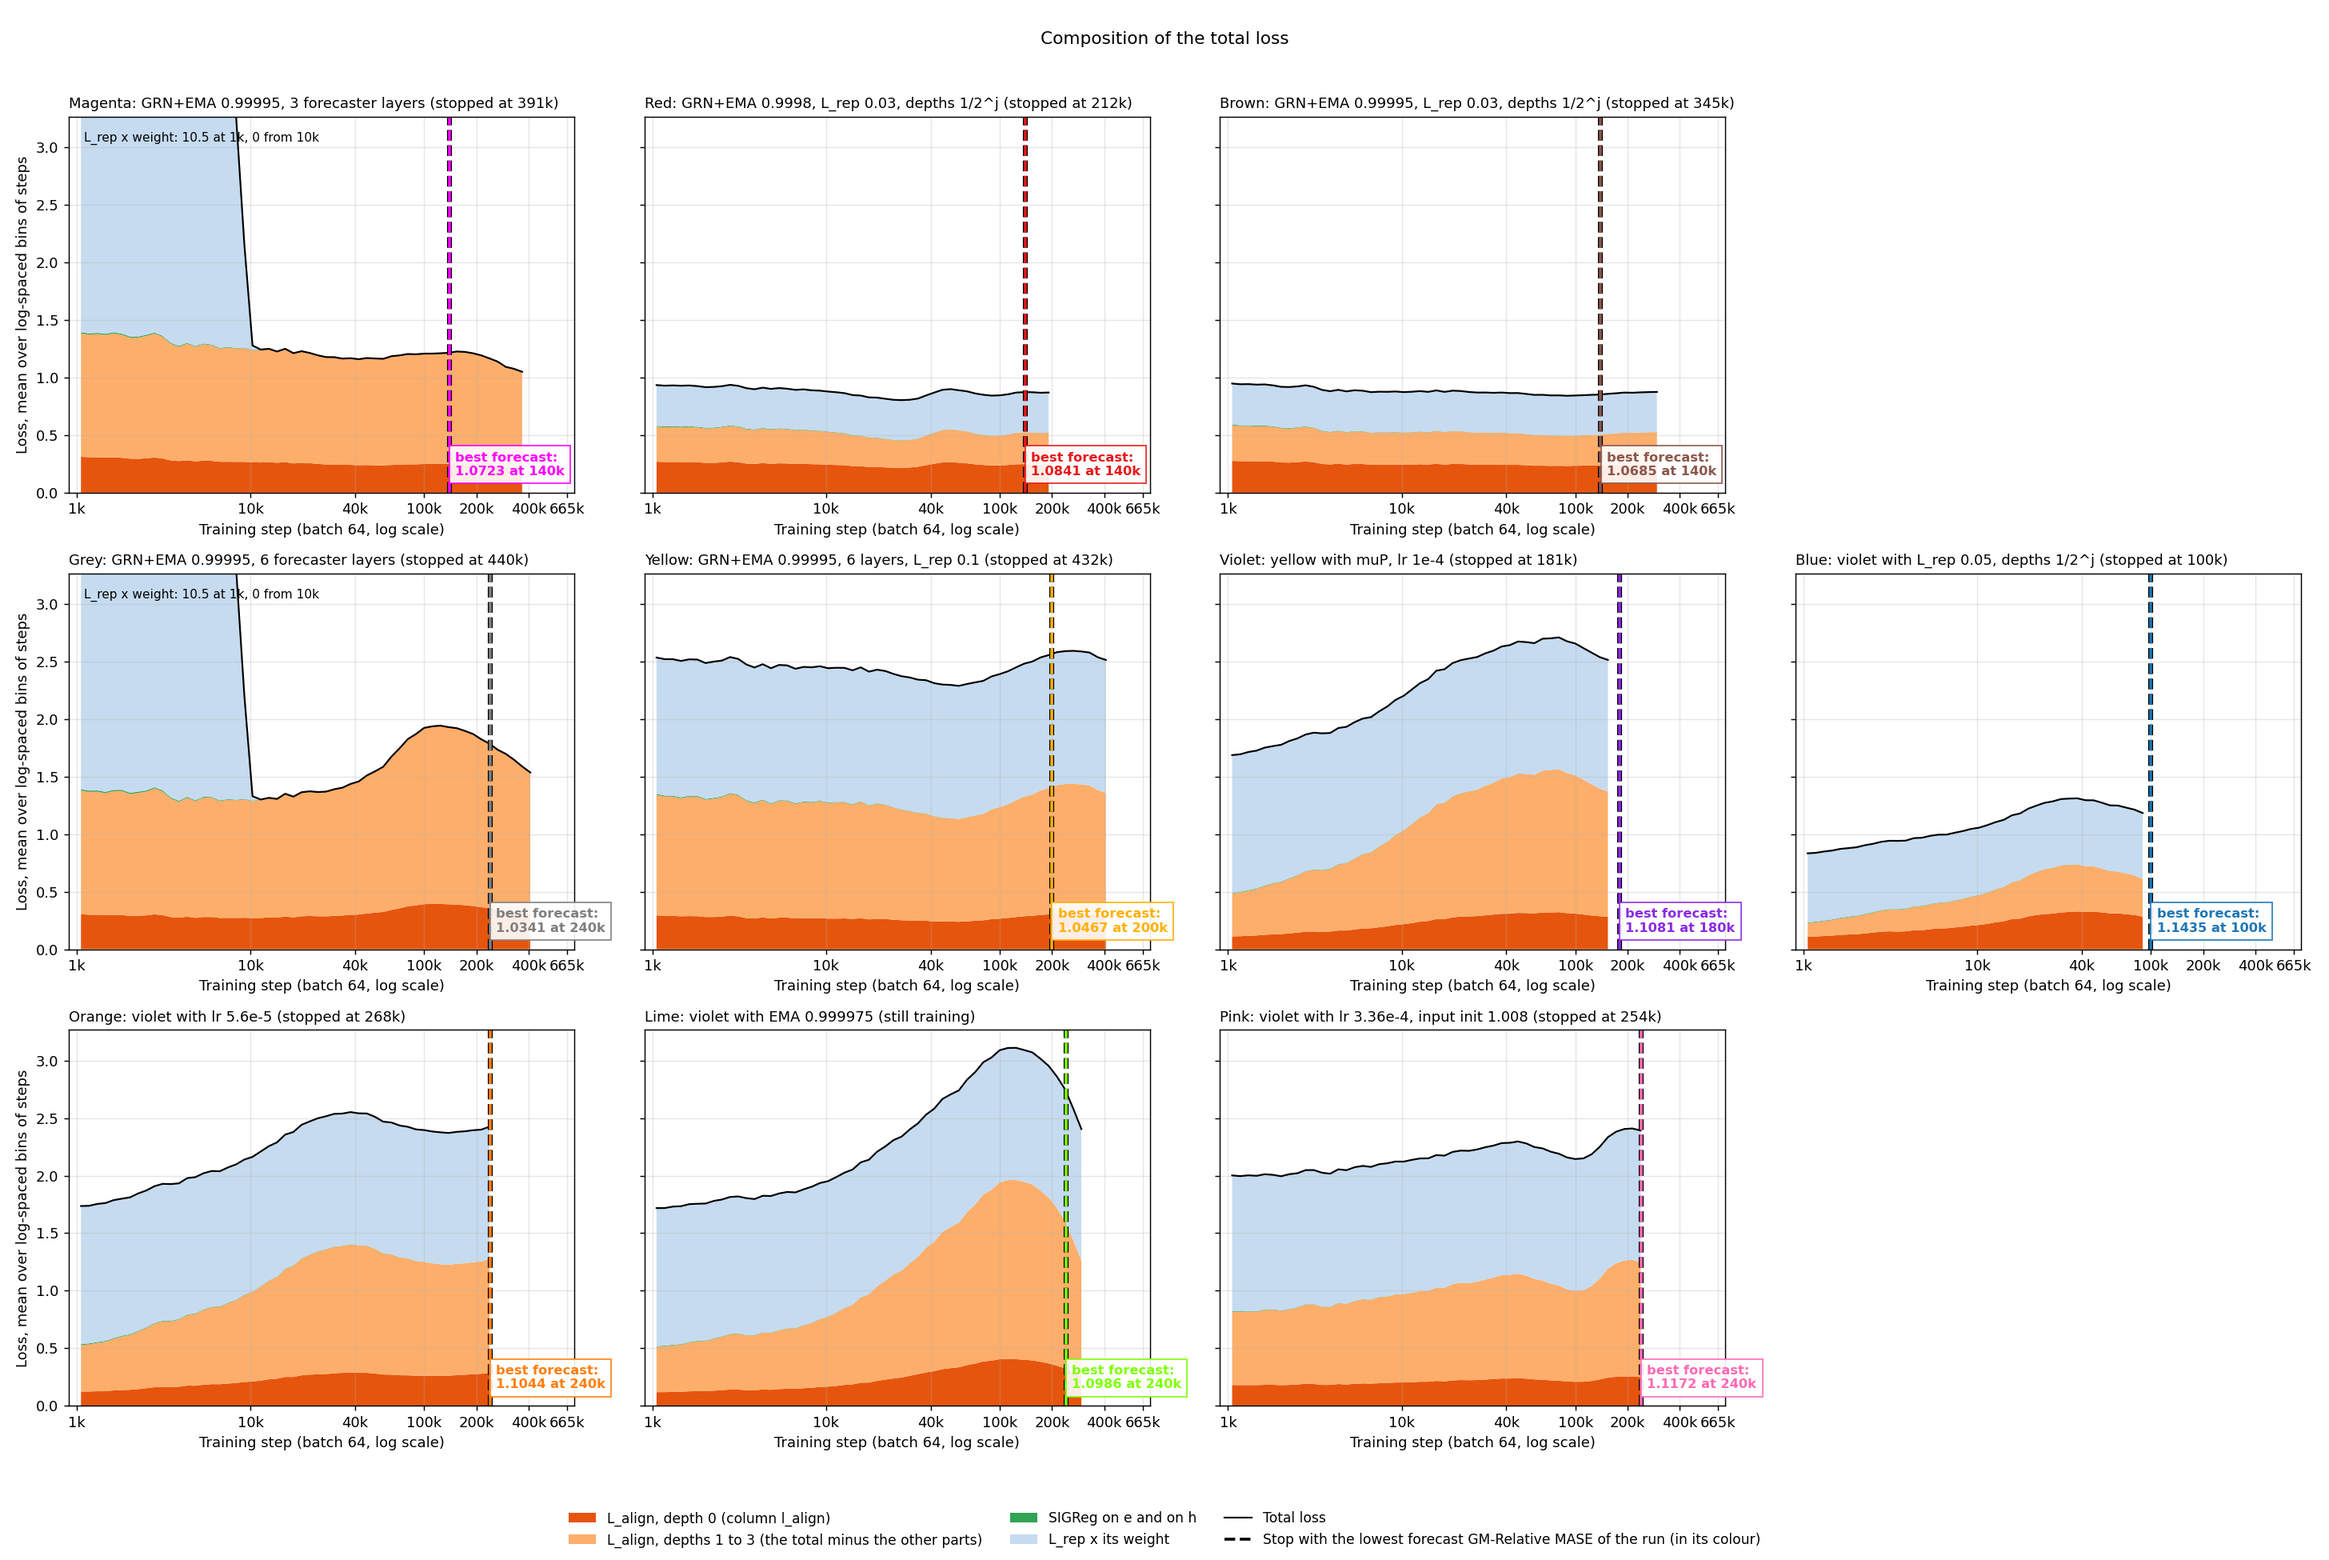
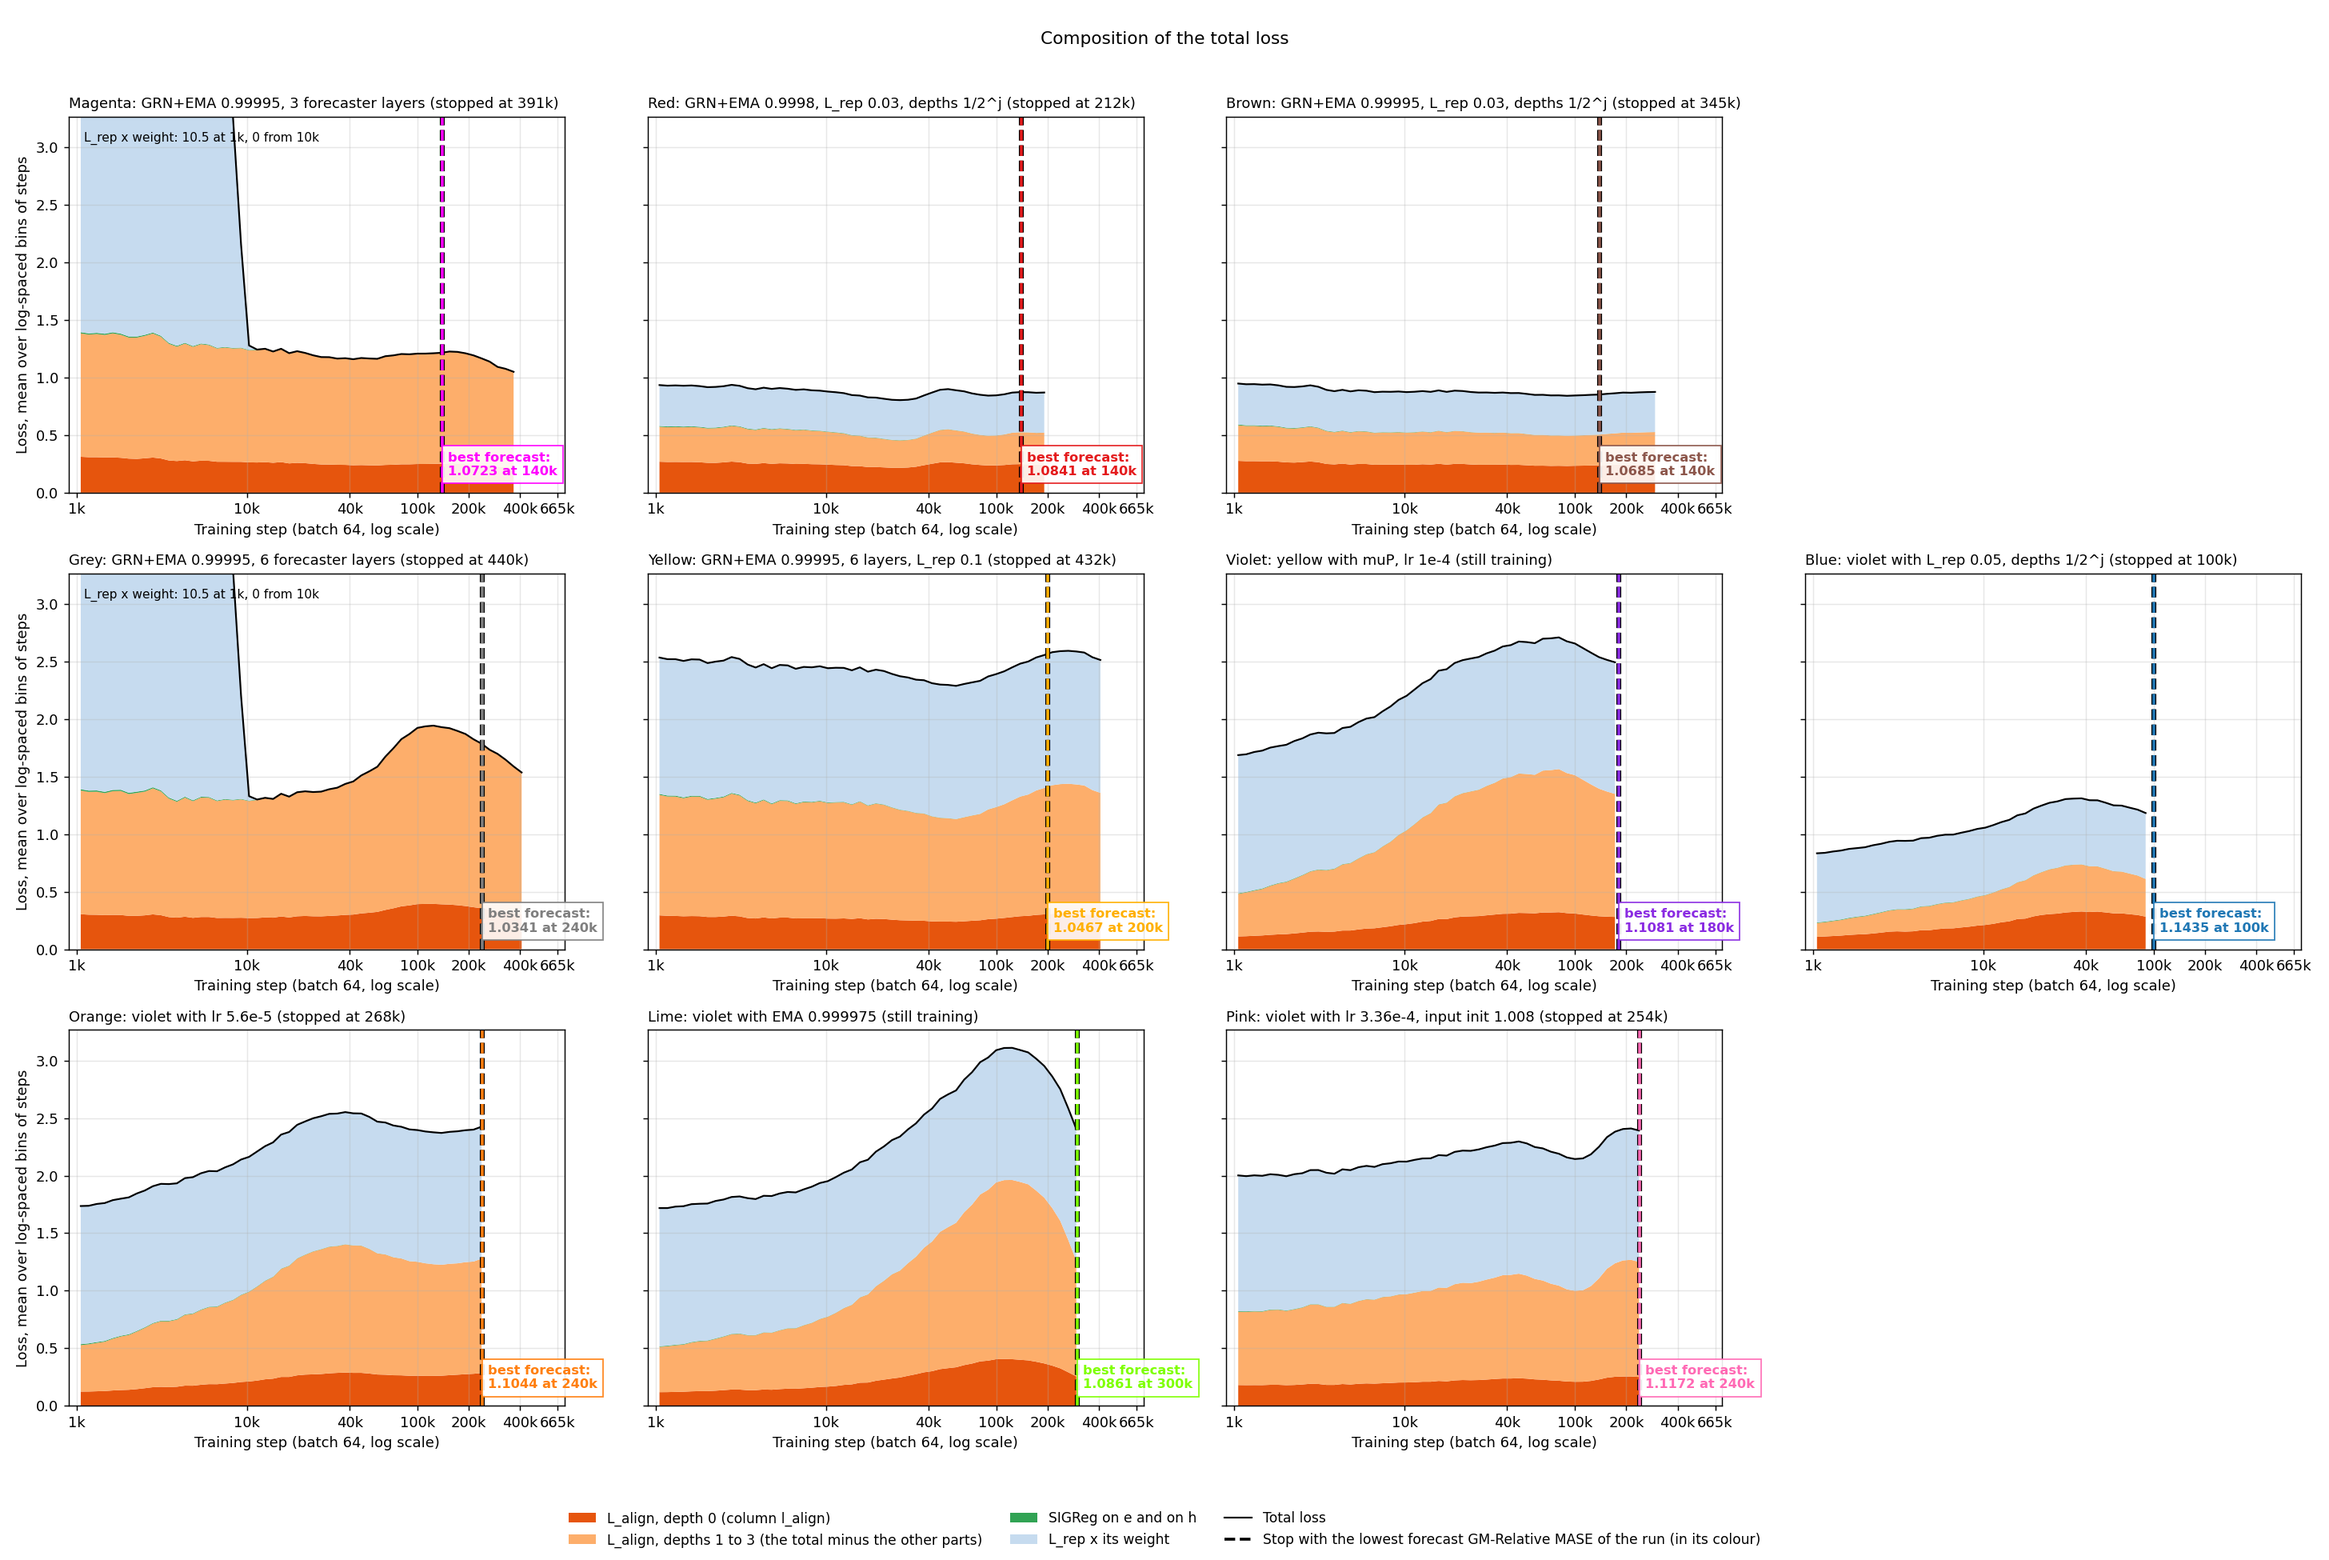
freq_family report: lime's 300k forecast; violet's losses after its resume

diff --git a/reports/2026-10-10_frequency_family_head/scripts/plot_loss_composition_099995.py b/reports/2026-10-10_frequency_family_head/scripts/plot_loss_composition_099995.py
@@ -73,8 +73,11 @@ RUNS = {
                                 (MINI_DIR / "grn_ema099995_f6_rep01_r4_losses.csv", None)],
                                "#ffb000", "Yellow: GRN+EMA 0.99995, 6 layers, L_rep 0.1 (stopped at 432k)"),
     "grn_ema099995_f6_rep01_mup": (
-        [(RUNS_DIR / "grn_ema099995_f6_rep01_mup/ckpt/grn_ema099995_f6_rep01_mup_losses.csv", None)],
-        "#8a2be2", "Violet: yellow with muP, lr 1e-4 (stopped at 181k)"),
+        [(RUNS_DIR / "grn_ema099995_f6_rep01_mup/ckpt/grn_ema099995_f6_rep01_mup_losses.csv",
+          180_000),
+         (RUNS_DIR / "grn_ema099995_f6_rep01_mup/ckpt/grn_ema099995_f6_rep01_mup_r2_losses.csv",
+          None)],
+        "#8a2be2", "Violet: yellow with muP, lr 1e-4 (still training)"),
     "grn_ema099995_f6_rep005_halving_mup": (
         [(RUNS_DIR / "grn_ema099995_f6_rep005_halving_mup/ckpt/"
           "grn_ema099995_f6_rep005_halving_mup_losses.csv", None)],
